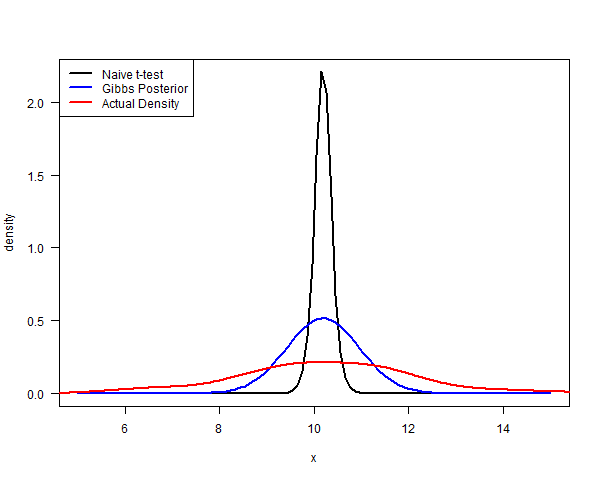
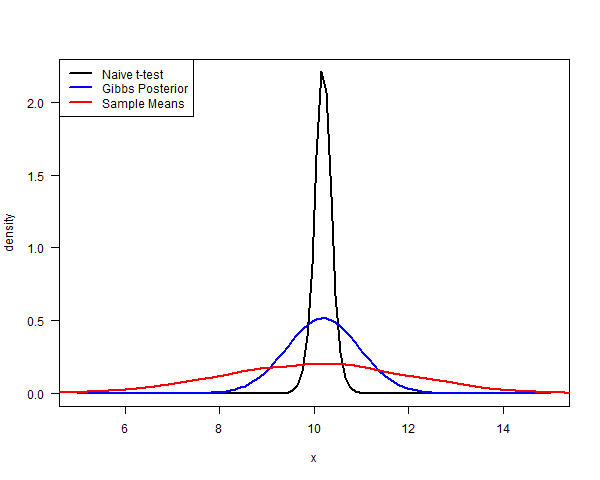
New draft of post-Bayesian post

diff --git a/about.html b/about.html
@@ -4,8 +4,11 @@ title: Data Science Confidential
 ---
 <div class="blurb">
 	<h1 style="font-family:monospace; font-weight:bold;">Data Science Confidential</h1>
-	<p>This is a blog about the theory and practice of statistics, machine learning, data visualisation, and so on. I have a background in academia and work as a data scientist in industry. Here's a <a href="https://rtrvale.github.io/">link to my homepage</a> with some other projects I have done, as well as lecture notes from old courses. I am also very interested in economics and other topics.
+	<p>This is a blog about the theory and practice of statistics, machine learning, data visualisation, and so on. I am also very interested in economics. Here's a <a href="https://rtrvale.github.io/">link to my homepage</a> with some other projects I have done, as well as lecture notes from old courses.
 	</p>
+  <p>
+    If you find something useful on here, please consider leaving a comment or even clicking the donation button at the bottom of each post! Or even better, what I would really like is a job!
+  </p>
 </div><!-- /.blurb -->	
 		
 	<p>

diff --git a/_posts/2025-06-17-post-bayesian.md b/_posts/2025-06-17-post-bayesian.md
@@ -1,0 +1,173 @@
+---
+layout: post
+title:  "Post-Bayesianism? Let's try it!"
+subtitle: "Investigating post-Bayesian statistics and the Gibbs Posterior"
+header-img: "/blog/images/2025/glowing_eyes_bayes.png"
+date:   2025-06-17
+published: true
+author: Richard
+categories: statistics r
+---
+A recent seminar introduced me to a new kind of statistical inference called post-Bayesianism. It has its [own website](https://postbayes.github.io/seminar/), seminar series, Youtube videos and, most importantly, a cool name<sup>[1](#myfootnote1)</sup>. Will it catch on? I don't know, but I think it's interesting, and the aim of this post is to explain why I think so.
+
+<div style="width:50%; margin:0 auto;">
+ <img src="/blog/images/2025/glowing_eyes_bayes.png" />
+</div>
+
+# The Gibbs Posterior
+
+One flavour of post-Bayesian inference is based on the notion of a <i>Gibbs Posterior</i>.
+
+To motivate the Gibbs Posterior, first consider the usual Bayesian inference for a (possibly vector-valued) parameter $\theta$. You have a prior $\pi(\theta)$, a data set $y$, and a model which relates the two. The likelihood of your model is a function $L(y \vert \theta)$. You perform inference by getting the posterior distribution $\pi'(\theta)$, which is proportional to the prior times the likelihood
+
+$$\pi'(\theta) \propto \pi(\theta)L(y \vert \theta).$$
+
+Often your model assumes that the data are obtained as an independent identically-distributed random sample of size $n$ from some probability distribution. If $p$ is the density of this distrbution, then the likelihood has the form
+
+$$L(y \vert \theta) = \prod_{i=1}^n p(y_i \vert \theta)$$
+
+and the posterior distribution may be written
+
+$$\pi'(\theta) \propto \pi(\theta)e^{-\ell(y , \theta)}$$
+
+where
+
+$$\ell(y, \theta) = -\sum_{i=1}^n \log p(y_i \vert \theta) \tag{1}\label{eq:1}$$
+
+is the negative log-likelihood. Now, a Gibbs Posterior is a generalization of this. Instead of the negative log-likelihood, you can take some other loss function $\ell$ and define the Gibbs Posterior with respect to $\ell$ as
+
+$$\pi'(\theta) \propto \pi(\theta)e^{-\ell(y, \theta)}$$
+
+Why would you want to do this? Well, what if I tell you that <i>you already do</i>?
+
+# Examples
+
+The most obvious thing you could do that's not just the ordinary Bayesian inference is to multiply the log-likelihood by a constant $\lambda$ in Equation $\eqref{eq:1}$. This gives you a new kind of Bayesian inference in which your likelihood is raised to some power $\lambda$. This is called <i>generalized Bayes</i> and was the [subject of the talk I attended by Yann McLachtie](https://yannmclatchie.github.io/blog/posts/power-posterior/). Generalized Bayes is supposed to give some sort of robustness against model misspecification. The likelihood is said to be <i>tempered</i> or <i>cooled</i>, and the parameter $\lambda$ is called the <i>temperature</i>.
+
+But you can think about other sorts of loss functions too. Your loss function doesn't have to come from any sort of statistical model. It can be whatever you want. For example, there's the whole field of [Approximate Bayesian Computation](https://en.wikipedia.org/wiki/Approximate_Bayesian_computation), in which you consider a model whose likelihood is too complicated to write down, and you perform inference by producing simulated data sets $y'$ from your model and measuring how close they are to your data $y$, using some sort of distance function $d(y, y')$. In this case, your loss function could just be $d$ (or something related to it) as discussed [in this paper.](https://jeremiasknoblauch.github.io/publication/abc_genbayes/)
+
+But there are other examples which are even closer to home!
+
+## Models and Statistics
+
+I've been wanting to write down my thoughts about inference for a while. Basically I view the process as starting with something you want to know (such as the size of a whale population) and a set of vaguely-related data (such as a list of observations of whale sightings). You then build a statistical model (off-the-shelf or bespoke) to relate the two. You then use your model to calculate something about the quantity of interest.
+
+A lot of statistics can be put into this framework, but I hit a snag when I started to think about summary statistics. For example, consider what happens when you calculate the mean of a univariate data set. You can view this as fitting a model to your data which just says that every data point has a constant value. This can certainly be useful, but it can't be viewed as a kind of likelihood-based inference, because the likelihood of the model will be identically zero. If you think of your model as a machine which spits out a number, say $5$, and your data contains distinct values, say $(5.1, 5.2, 4.9)$, there's no way that the model can generate your data because it can only output the sequence $(5, 5, 5)$. The probability of observing the data you observed is zero. So likelihood-based inference doesn't work.
+
+Everyone knows this, of course, and so we calculate the mean $\theta$ of our data set $y=(y_1, \ldots, y_n)$ by finding the minimum of a loss function, namely
+
+$$\ell(y, \theta) = \frac{1}{2} \sum_{i=1}^n (y_i-\theta)^2.$$
+
+(Other summary statistics like the median can be calculated in the same way using different loss functions.)
+
+Now, one nice thing about this example is that it <i>does</i> fit into the Gibbs Posterior framework. Namely, if you take the prior to be $\pi(\theta) \equiv 1$ and set the temperature parameter to be $\lambda = \infty$, then the Gibbs Posterior is $100\%$ concentrated at the mean! So the notion of Gibbs Posterior somehow puts likelihood-based inference and non-likelihood-based inference on the same footing<sup><a name="myfootnote2">2</a></sup>.
+
+(That's why I said above that you are already using Gibbs Posteriors. Maybe next time you calculate a mean, you can claim that you are "doing post-Bayesian inference in the infinite temperature realm". Remember: it's a question of marketing!)
+
+## Maximum Spacing Estimation and the Lone Runner
+
+Even when the likelihood exists, it's not always all it's cracked up to be. My favourite example is the following: a running race is going on. The runners are numbered $1$ up to $\theta$ for some $\theta$. You happen to spot one of the runners, and it's number $y = 37$. How many runners are there in the race?
+
+The likelihood for this problem is the probability of observing $37$ given $\theta$, which is
+
+$$\begin{cases}0 &\qquad \theta < 37\\
+1/\theta &\qquad \theta \ge 37.  \end{cases}$$
+
+This is maximized when $\theta = 37$. This is not a satisfying answer because intuitively it's clear that something like $\theta = 2 \times 37$ would be a better guess<sup><a name="myfootnote3">3</a></sup>. Introducing a prior on $\theta$ and doing Bayesian inference doesn't really help much, either.
+
+In fact, the minimum variance unbiased estimator for this problem is $2y-1$ where $y$ is the runner's number, and it can be derived using a likelihood-free method of inference called [Maximum Spacing Estimation](https://en.wikipedia.org/wiki/Maximum_spacing_estimation). The maximum spacing estimator doesn't involve a statistical model, but it <i>is</i> calculated by minimizing a loss function, so it too fits into the Gibbs Posterior framework!
+
+# What might a post-Bayesian t-test look like?
+
+I'm convinced that the idea of a Gibbs Posterior is mathematically elegant, but how would you actually go about using it? I really don't know, so I decided to do some experiments using R. This is very speculative, so apologies in advance to any post-Bayesians who see this.
+
+Let's suppose we are given a sample `dat` of values from some population and we're trying to find out about the population mean $\mu$.
+```r
+dat <- c(9.5, 9.63, 9.55, 10.44, 10.55, 10.87, 10.29, 11.01, 10.18, 9.82)
+```
+Every statistican knows how to proceed. According to the seminal work of Gossett, if $s$ is the sample standard deviation, $\overline{y}$ is the sample mean, and $n=10$ then $(\overline{y} - \mu)/(s/\sqrt{n})$ follows a $t$-distribution with $n-1$ degrees of freedom. A Bayesian can view this is a likelihood for $\mu$.
+
+But wait! That result is based on some pretty strong assumptions! Namely, that we have an IID random sample from the population and (depending on who you ask and whether $n$ is big enough) that the population is normally distributed. Maybe we're post-Bayesians and we don't want to make those assumptions?
+
+What else could we do? Well, the sample mean $\overline{x}$ is the minimizer $\theta$ of the loss function
+
+$$\ell(\theta) = \frac{\lambda}{2}\sum_{i=1}^n(y_i - \theta)^2$$
+
+where $y_i$ are our data values. If we take a flat prior $\pi(\theta) \equiv 1$ then we can form the Gibbs Posterior
+
+$$\pi'(\theta) \propto e^{-\ell(\theta)}$$
+
+which I think will be a normal distribution with mean $\overline{y}$ and standard deviation $\sqrt{1/\lambda n}$. How do we choose $\lambda$? Well, the reason why we're doing post-Bayesian inference is that we think our sample might not be IID. So let's assume that we think our sample is morally equivalent to an IID sample of a much smaller size. Since $0.05$ is a popular magic number in statistics, let's assume that our sample contains the same amount of statistical juice as an IID sample which is $0.05$ times its size. Since the $t$-distribution is close to normal, we could choose $\lambda$ so that
+
+$$\frac{s}{\sqrt{0.05n}} = \sqrt{\frac{1}{\lambda n}}$$
+
+which means that the Gibbs Posterior is $\theta \sim N(\overline{y}, 2s^2)$.
+
+To compare the two methods of inference, let me explain how I generated the data. I used the following `sample_badly` function<sup><a name="myfootnote4">4</a></sup> which samples from an $AR(1)$ process. First, I drew $y_1$ from $N(10, 1)$. Then I took a sample in which each subsequent value was sampled from a neighbourhood of the previous value using an $N(0,1)$ distribution.
+```r
+sample_badly <- function(n, mu, sigma, s=1){
+  x <- rep(0, n)
+  x[1] <- rnorm(1, mu, sigma)
+  for (i in 2:n){
+    x[i] <- x[i-1] + rnorm(1, 0, s)
+  }
+  x
+}
+```
+The following code plots the posterior distributions for the two methods of inference, as well as the distribution of sample means.
+```r
+set.seed(100)
+
+# take 100 samples by sampling badly
+M_bad <- matrix(0, nr=10, nc=10000)
+for (i in 1:10000) M_bad[,i] <- sample_badly(10, 10, 1, 1)
+
+xx <- seq(5, 15, len=100)
+t_density <- dt((xx - mean(dat))/(sd(dat)/sqrt(10)), df=10-1)
+plot(xx, t_density/(sum(t_density)*diff(xx)[1]), "l", lwd=2,
+     xlab="x",
+     ylab="density",
+     las=1)
+
+lines(xx, dnorm(xx, mean=mean(dat), sd=sqrt(2)*sd(dat)), "l", 
+col="blue", lwd=2)
+
+lines(density(colMeans(M_bad))$x, 
+      density(colMeans(M_bad))$y, col="red", lwd=2)
+
+\legend("topleft",
+       legend=c("Naive t-test", "Gibbs Posterior", "Sample Means"),
+       col=c("black", "blue", "red"), lwd=2)
+```
+Here is what the densities look like. The plot shows the posterior distribution based on a Bayesian version of the t-statistic (with a flat prior) in black, and the post-Bayesian posterior (with a flat prior) in blue.
+
+<div style="width:70%; margin:0 auto;">
+ <img src="/blog/images/2025/post_bayesian_t_test_example.png" />
+</div>
+
+(Now, at this point some people might say: "But I can do better because `sample_badly` is just an $AR(1)$ process! I can write down the likelihood function and get the right model." But that's missing the point! The whole point is that you aren't supposed to know that the data were generated by `sample_badly`! You were just given a suspicious-looking sample and you wanted to do inference about the population mean in a conservative way.)
+
+The object of this exercise is to estimate the population mean $\mu$. The true value of $\mu$ happens to be $10$. For the sample `dat`, both the Gibbs Posterior and the Bayesian method give a reasonable-looking posterior distribution for $\mu$. What if we had taken some other sample? The red curve shows the distribution of sample means you would get if you took many different samples using `sample_badly`. Clearly, the Gibbs Posterior is going to do a slightly better job than the t-test, but it still isn't conservative enough. And how could we realistically know how to choose $\lambda$ in practice? I'm not sure.
+
+Could we get the same effect by choosing a better prior? I don't think so. The prior expresses our uncertainty about $\mu$. But what we are really worried about in this example is our uncertainty about the sampling method itself. Bayesians have to assume that their model is $100\%$ correct, so a Bayesian who wanted to introduce model uncertainty would have to choose something like, for example, a mixture of various different models describing ways in which the sample might have been drawn. The Gibbs Posterior gives us a simpler model-free alternative.
+
+# Does it have legs?
+
+Post-Bayesianism looks really interesting to me. Generalized Bayes can potentially give you some insurance against your model being wrong. The Gibbs Posterior can potentially cut through the whole business of building a statistical model and allow you to address the question you care about by using a loss function instead. But will this approach ever catch on? 
+
+Maybe not. The problem is that academia is mostly focussed on building models (I recall the [friendly advice I got](https://datascienceconfidential.github.io/bayesian/2024/03/19/layoffs-revisited.html) last time I tried to write a paper about prediction). If the purpose of academic papers is to impress people with your model-building skills, then is a new method of inference which assumes that your model could be wrong likely to become popular, even if gives better results? Why would someone whose job is dependent on publishing papers which show off their models want to acknowledge that their model might not be the cat's pyjamas?<sup><a name="myfootnote4">5</a></sup>
+
+Still, there can be no doubt that the post-Bayesian point of view shows that Bayesian inference, ABC, the method of moments, and other ways of fitting models to data are secretly the same thing. I think that's really neat, and I'm looking forward to learning more about it!
+______________
+
+## Footnotes
+
+<a name="myfootnote1">1</a> Choosing the right name for things is half the battle. I spent my youth studying a subject called ["quantum algebra"](https://en.wikipedia.org/wiki/Quantum_algebra). I don't deny that it's interesting in my own right, but I also wouldn't be completely honest if I didn't admit that part of the draw, both for myself and for some of the other PhD students, was that it had a cool name. I'm reminded of a mathematician friend who once lamented to me: "How come when physicists generalize things they call them <i>super</i> and <i>ultra</i> but when mathematicians generalize something they call it <i>quasi</i> or <i>semi</i>?"
+
+<a name="myfootnote2">2</a> In the data profession, such as it is, a distinction is usually made between data scientists, who fit machine learning models, some of which are likelihood-based, and data analysts, who calculate statistics and build dashboards. I think this is a bit of a false dichotomy, and that the idea of a Gibbs Posterior shows that they are really the same thing. The data analysts are just using simpler algorithms to fit their models. They generally generate more marginal value and get paid less than their data scientist colleauges.
+
+<a name="myfootnote3">3</a> Don't believe me? If you follow the maximum likelihood procedure, no matter what the runner's number happens to be, you must conclude that it's the maximum number in the whole field. This just doesn't seem feasible. The problem here comes about because, although maximum likelihood has various guarantees of unbiasedness etc, those guarantees are asymptotic, so they might not work well in small samples like this one.
+
+<a name="myfootnote4">4</a> Although it looks insane, this was inspired by how the data were collected in a real-life machine learning problem which I once encountered. During model development we assumed that the data had come from a random sample. The client assumed that the method of sampling didn't matter. We didn't find out the truth until the project was nearly complete!
+
+<a name="myfootnote4">5</a> But maybe I'm too pessimistic? After all, Bayesianism is generally more conservative than frequentism, and it caught on eventually.
